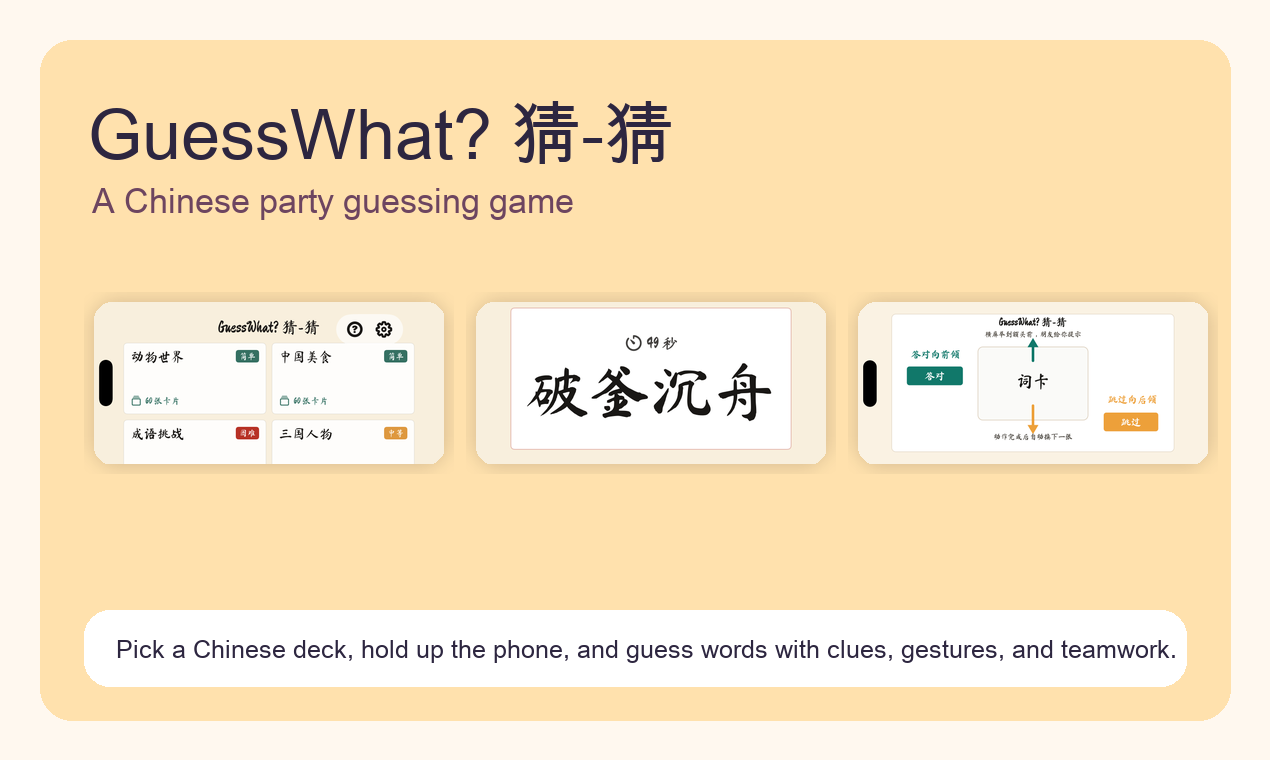
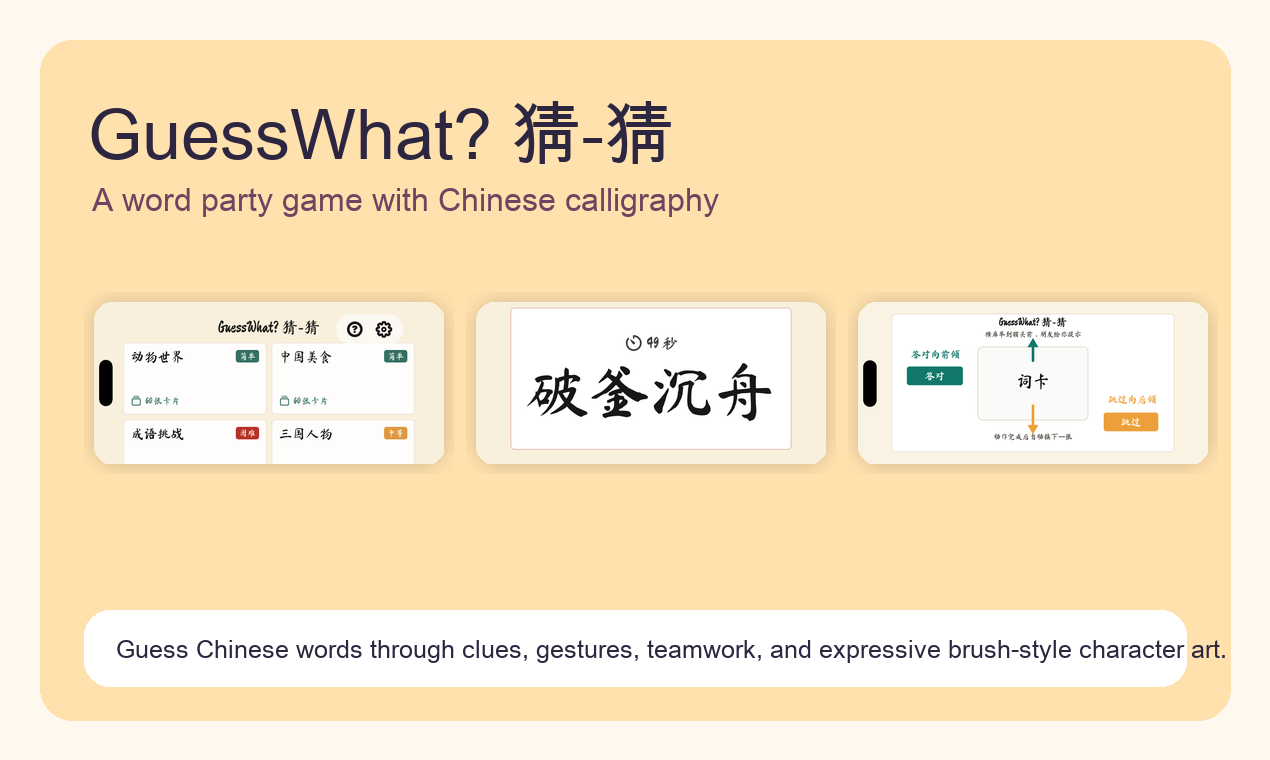
Refine GuessWhat Product Hunt positioning

Changed region(s): [[0.0614, 0.2421, 0.5835, 0.3026], [0.0921, 0.8474, 0.952, 0.8776]]

diff --git a/product-hunt-draft.md b/product-hunt-draft.md
@@ -21,31 +21,31 @@ Name:
 GuessWhat? 猜-猜
 
 Tagline:
-A Chinese party guessing game
+A word party game with Chinese calligraphy
 
 Description:
-GuessWhat? 猜-猜 is a Chinese-first party word guessing game. Pick a deck, hold up the phone, and guess words with clues, gestures, and teamwork. It includes original Chinese decks, 30/60/90 second rounds, and tilt controls for correct answers and skips.
+GuessWhat? 猜-猜 is a solo-friendly party word game built around the beauty of Chinese characters. Instead of treating words as plain text, it uses a traditional brush-calligraphy style to make each card feel visual, expressive, and playful while friends give clues, act, and guess together.
 
 Tags:
 - Games
-- Party Games
+- Languages
 - Education
 
 ## First Comment
 
 Hi Product Hunt, I’m William.
 
-I made GuessWhat? 猜-猜 because I wanted a party guessing game that felt natural for Chinese-speaking families and friends.
+I made GuessWhat? 猜-猜 because I wanted a party guessing game that celebrates the visual beauty of Chinese characters.
 
-Many word games are English-first, so I wanted to make something built around Chinese words, idioms, food, holidays, animals, and everyday topics. The game is simple: pick a deck, hold the phone up, and let friends give clues. Tilt forward for correct, tilt back to skip.
+There are already many solo or party-style guessing games, but most treat words as plain text. For this app, I wanted the cards to feel closer to Chinese brush calligraphy: expressive, traditional, and beautiful as words themselves. The game is still simple: pick a deck, hold up the phone, and let friends give clues or act things out. But the feeling I wanted was more like playing with Chinese language and character art, not just translating an existing party game format.
 
-I’m curious how people think about language-focused party games: should they stay simple and fast, or should they include more cultural and learning depth over time?
+I’m curious how people think about word games: can the typography and cultural style become part of the gameplay feeling, not just decoration?
 
 ## Short Share Copy
 
-I built GuessWhat? 猜-猜, a Chinese-first party guessing game for families, friends, and language learners.
+I built GuessWhat? 猜-猜, a party word game shaped around the beauty of Chinese characters and brush-calligraphy style.
 
-Pick a deck, hold up the phone, and guess words with clues, gestures, and teamwork.
+Pick a deck, hold up the phone, and guess Chinese words with clues, gestures, teamwork, and expressive character art.
 
 App Store:
 https://apps.apple.com/us/app/guesswhat-%E7%8C%9C-%E7%8C%9C/id6775619358